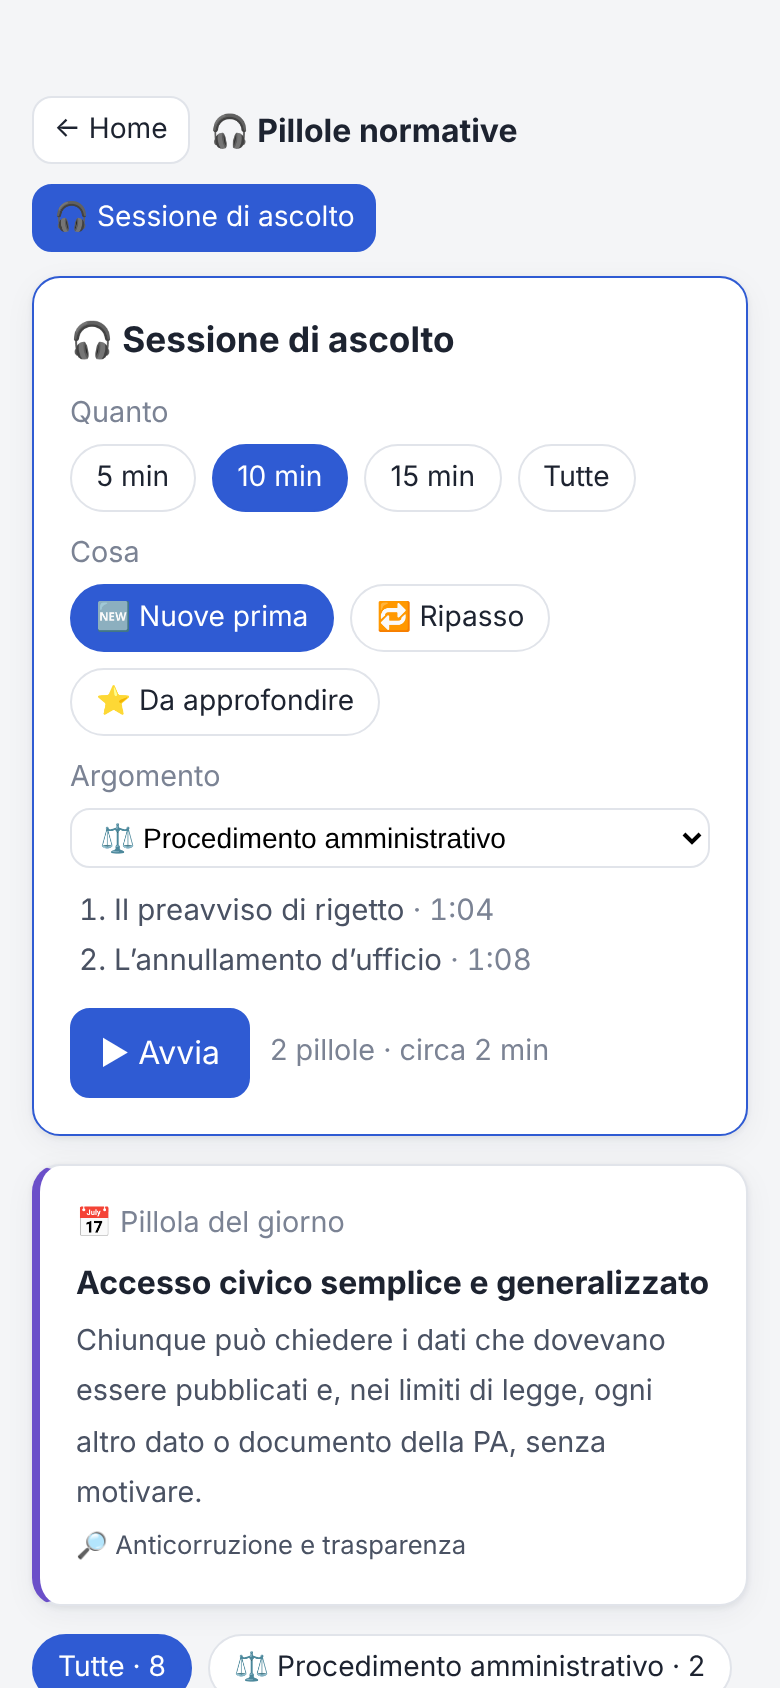
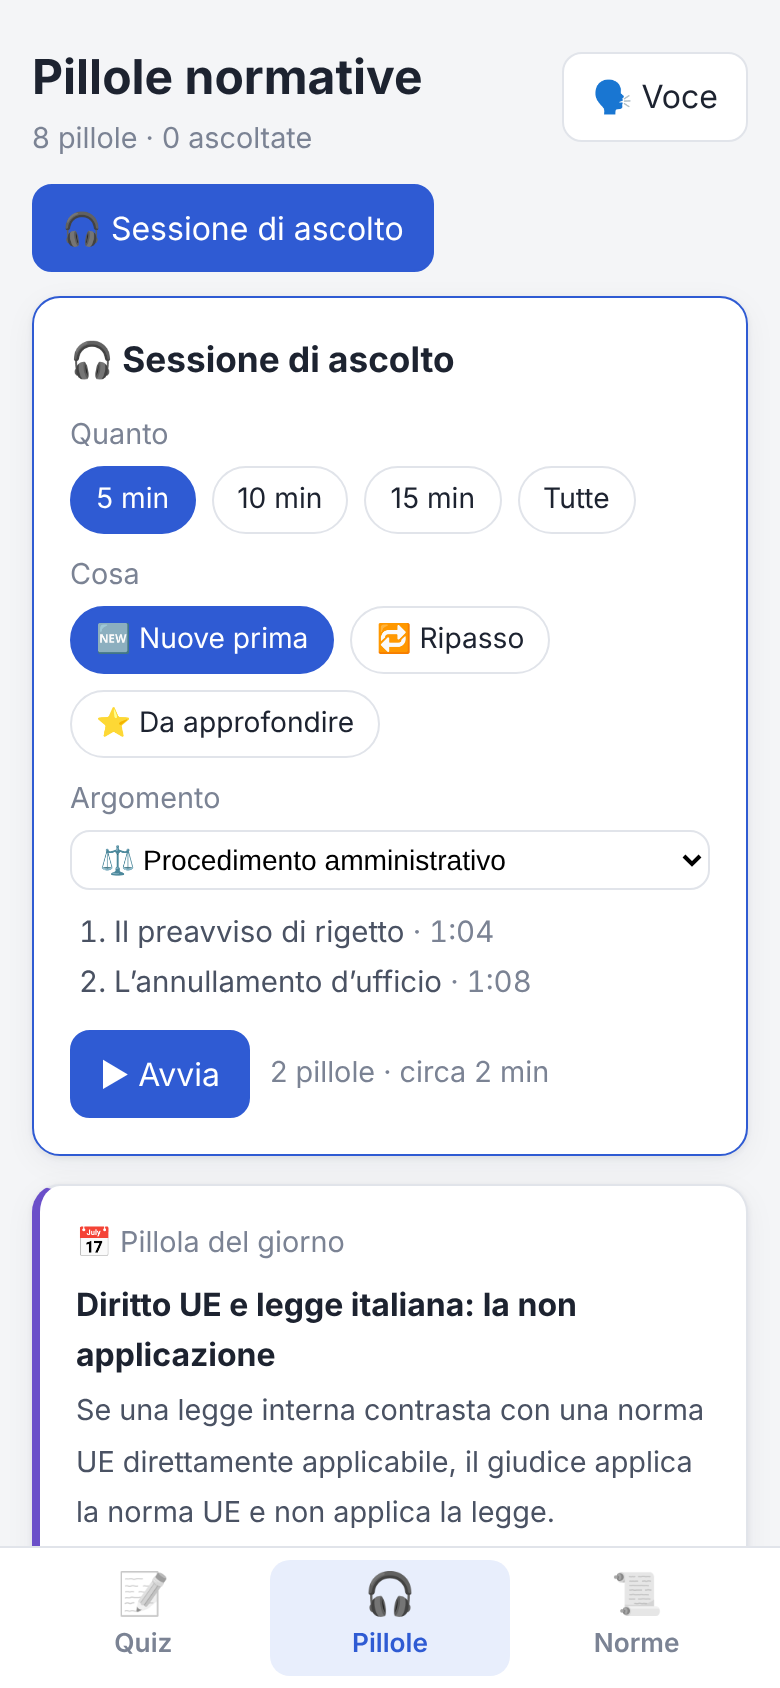
Pillole: barra di avanzamento dell'ascolto
- sotto «▶ Ascolta» una barra con il tempo trascorso e la durata: con il file audio si salta al
  punto scelto; con la voce del telefono la lettura procede frase per frase e la barra porta
  alla frase corrispondente (tempi stimati)
- la pausa con la voce del telefono riprende dalla frase interrotta invece che dall'inizio

Claude-Session: https://claude.ai/code/session_01LeeM76ntNkL2VMLBGJ9Dax

diff --git a/index.html b/index.html
@@ -218,6 +218,8 @@ details.atto summary{cursor:pointer}
 /* le sezioni stanno in più contenitori: quelli senza nulla di visibile non occupano spazio */
 .wrap:not(:has(> :not(.hidden))){display:none}
 .norma-testo ins,#nn-nota ins{background:var(--ok-soft);color:var(--ok);text-decoration:none;font-weight:600}
+.barra{display:flex;gap:10px;align-items:center;margin:-4px 0 14px;font-size:.8rem;color:var(--ink3);font-variant-numeric:tabular-nums}
+.barra input{flex:1;min-width:0;accent-color:var(--accent);height:28px}
 .voce-modal{max-width:440px}
 .voce-modal .campo{display:grid;gap:5px;margin:14px 0;font-size:.9rem;color:var(--ink2)}
 .voce-modal select{width:100%;font-size:1rem}
@@ -438,7 +440,8 @@ details.atto summary{cursor:pointer}
         <button class="btn" id="pp-voce-btn">🗣 Voce</button>
         <span class="stato" id="pp-stato"></span>
       </div>
-      <audio id="pp-audio" preload="none"></audio>
+      <div class="barra"><span id="pp-t">0:00</span><input type="range" id="pp-barra" min="0" max="60" step="any" value="0" aria-label="Posizione nell’ascolto"><span id="pp-tot">–:––</span></div>
+      <audio id="pp-audio" preload="metadata"></audio>
       <div class="pill-testo" id="pp-testo"></div>
       <div class="appr hidden" id="pp-appr-box"><h2>📚 Approfondisci</h2><div id="pp-appr"></div></div>
       <button class="prova-btn hidden" id="pp-prova"><b>✍ Mettiti alla prova</b><span id="pp-prova-txt"></span></button>
@@ -1325,7 +1328,8 @@ async function apriPillola(i, approfondisci, continua) {
   const au = $("pp-audio"), src = p.audio === false ? "" : "pillole/audio/" + p.id + ".mp3";
   if (au.getAttribute("src") !== src) au.src = src;
   au.playbackRate = (DB.vel || 1);
-  aggiornaCast(); renderVoci();
+  if (!continua) PL.frasiId = null;
+  aggiornaCast(); renderVoci(); aggiornaBarra();
   if (!continua) $("pp-stato").textContent = "";
   DB.pillole = DB.pillole || {}; DB.pillole[p.id] = Date.now(); salva();
   show("pillola");
@@ -1476,7 +1480,7 @@ function renderVoci() {
   $("pp-cast").classList.toggle("hidden", !usaFile() || $("pp-cast").dataset.ok !== "1");
 }
 function scegliVoce(valore) { const suonava = inRiproduzione(); fermaAscolto(); DB.voce = valore; salva(); renderVoci(); if (suonava && !$("pillola").classList.contains("hidden")) ascolta(); }
-function scegliVelocita(valore) { DB.vel = +valore; salva(); $("pp-audio").playbackRate = DB.vel; renderVoci(); }
+function scegliVelocita(valore) { DB.vel = +valore; salva(); $("pp-audio").playbackRate = DB.vel; renderVoci(); aggiornaBarra(); }
 // «▶ Prova»: una frase con la voce scelta (o l'inizio del file audio della pillola del giorno)
 let provaAudio = null;
 function fermaProva() {
@@ -1512,17 +1516,61 @@ async function ascolta() {
   }
   parlaTelefono(p);
 }
-function parlaTelefono(p) {
+// Voce del telefono: una frase alla volta, così la barra mostra a che punto si è, ci si può
+// spostare e la pausa riprende dalla frase interrotta. PL.frase è la frase da cui ripartire.
+const CAR_AL_SECONDO = 14;   // velocità di lettura stimata a 1×, per mostrare i tempi
+function frasiDi(p) {
+  if (PL.frasiId !== p.id) {
+    PL.frasiId = p.id; PL.frase = 0;
+    PL.frasi = p.parlato.split(/(?<=[.!?:;])\s+/).filter(f => f.trim());
+    let c = 0; PL.inizi = PL.frasi.map(f => { const x = c; c += f.length + 1; return x; }); PL.caratteri = c;
+  }
+  return PL.frasi;
+}
+function parlaTelefono(p, da) {
   if (!window.speechSynthesis) { $("pp-stato").textContent = "Audio non disponibile su questo dispositivo."; $("pp-play").textContent = "▶ Ascolta"; return; }
-  const u = new SpeechSynthesisUtterance(p.parlato);
-  u.lang = "it-IT"; u.rate = (DB.vel || 1);
-  const v = voceScelta();
-  if (v) u.voice = v;
-  u.onend = () => { if (voceTel !== u) return; voceTel = null; $("pp-play").textContent = "▶ Ascolta"; finePillola(); };
-  u.onerror = () => { if (voceTel === u) { voceTel = null; $("pp-play").textContent = "▶ Ascolta"; } };
-  voceTel = u;
+  const frasi = frasiDi(p), v = voceScelta();
+  if (da !== undefined) PL.frase = da;
+  if (PL.frase >= frasi.length) PL.frase = 0;
+  speechSynthesis.cancel();
+  const dici = k => {
+    PL.frase = k; aggiornaBarra();
+    if (k >= frasi.length) { voceTel = null; PL.frase = 0; $("pp-play").textContent = "▶ Ascolta"; finePillola(); return; }
+    const u = new SpeechSynthesisUtterance(frasi[k]);
+    u.lang = "it-IT"; u.rate = (DB.vel || 1);
+    if (v) u.voice = v;
+    u.onend = () => { if (voceTel === u) dici(k + 1); };
+    u.onerror = () => { if (voceTel === u) { voceTel = null; $("pp-play").textContent = "▶ Ascolta"; } };
+    voceTel = u;
+    speechSynthesis.speak(u);
+  };
   $("pp-stato").textContent = usaFile() ? "Voce del telefono (file audio non disponibile)" : "";
-  speechSynthesis.speak(u);
+  dici(PL.frase);
+}
+const mmss2 = sec => Math.floor(sec / 60) + ":" + String(Math.floor(sec % 60)).padStart(2, "0");
+// la barra: secondi del file audio, oppure tempo stimato dalla frase raggiunta
+function aggiornaBarra() {
+  const au = $("pp-audio"), b = $("pp-barra");
+  if (usaFile()) {
+    const tot = isFinite(au.duration) ? au.duration : 0;
+    b.max = tot || 60; if (!PL.trascina) b.value = au.currentTime || 0;
+    $("pp-t").textContent = mmss2(au.currentTime || 0); $("pp-tot").textContent = tot ? mmss2(tot) : "–:––";
+    return;
+  }
+  const p = PILLOLE[PL.i]; frasiDi(p);
+  const vel = CAR_AL_SECONDO * (DB.vel || 1), pos = (PL.inizi[PL.frase] ?? PL.caratteri) / vel;
+  b.max = PL.caratteri / vel; if (!PL.trascina) b.value = pos;
+  $("pp-t").textContent = mmss2(pos); $("pp-tot").textContent = "~" + mmss2(PL.caratteri / vel);
+}
+// spostando la barra: nel file si salta al secondo, con la voce alla frase corrispondente
+function spostaBarra() {
+  PL.trascina = false;
+  const v = +$("pp-barra").value, au = $("pp-audio");
+  if (usaFile()) { au.currentTime = v; aggiornaBarra(); return; }
+  const p = PILLOLE[PL.i]; frasiDi(p);
+  const car = v * CAR_AL_SECONDO * (DB.vel || 1);
+  let k = 0; while (k + 1 < PL.inizi.length && PL.inizi[k + 1] <= car) k++;
+  if (voceTel && !voceTel.prova) parlaTelefono(p, k); else { PL.frase = k; aggiornaBarra(); }
 }
 function finePillola() {
   $("pp-play").textContent = "▶ Ascolta";
@@ -1540,7 +1588,7 @@ function suona(i) {
   const au = $("pp-audio"), p = PILLOLE[i], src = "pillole/audio/" + p.id + ".mp3";
   if (window.speechSynthesis) speechSynthesis.cancel();
   voceTel = null;
-  PL.i = i;
+  PL.i = i; PL.frasiId = null;
   if (usaFile() && p.audio !== false && au.dataset.ko !== src) {
     if (au.getAttribute("src") !== src) au.src = src;
     au.playbackRate = (DB.vel || 1);
@@ -1651,6 +1699,9 @@ async function trasmetti() {
 if (HAS_PILLOLE) {
   const au = $("pp-audio");
   au.onended = finePillola;
+  au.ontimeupdate = au.onloadedmetadata = au.ondurationchange = () => { if (usaFile()) aggiornaBarra(); };
+  $("pp-barra").oninput = () => { PL.trascina = true; const v = +$("pp-barra").value; $("pp-t").textContent = mmss2(v); };
+  $("pp-barra").onchange = spostaBarra;
   au.onpause = () => { if (!voceTel) $("pp-play").textContent = "▶ Ascolta"; aggiornaMini(); };
   au.onplay = () => { $("pp-play").textContent = "⏸ Pausa"; aggiornaMini(); };
   au.onerror = () => { if (!au.src || au.dataset.ko === au.src) return; au.dataset.ko = au.src; if ($("pp-play").textContent.startsWith("⏸")) parlaTelefono(PILLOLE[PL.i]); };
